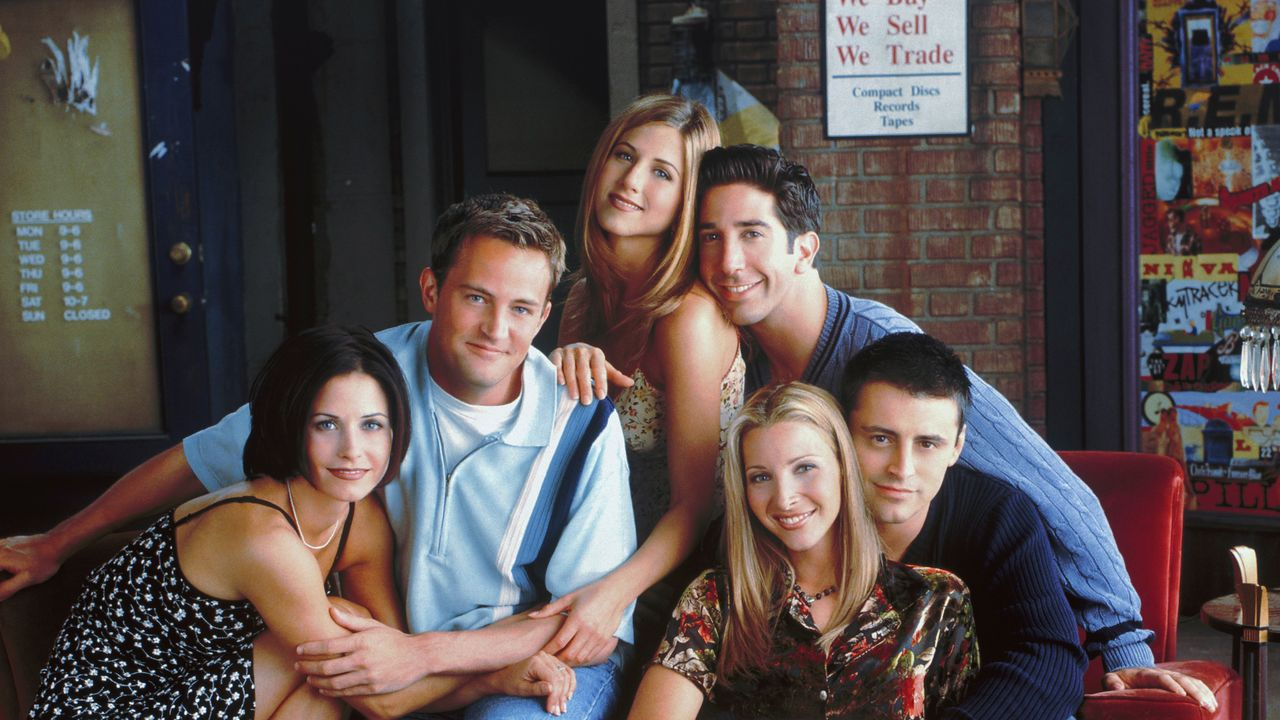
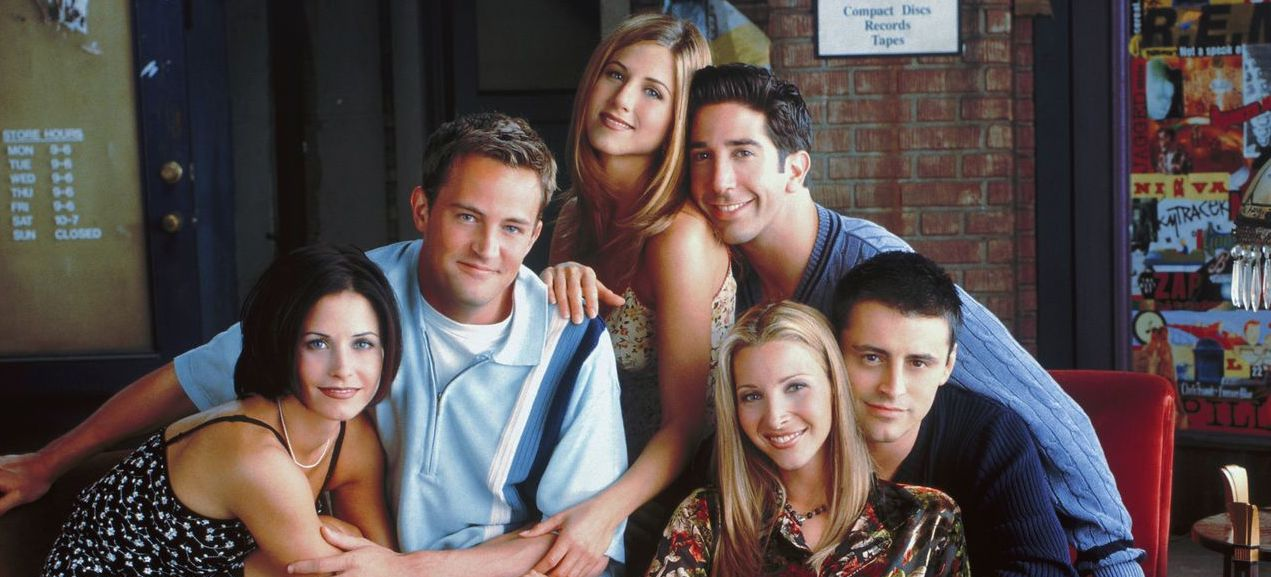
Cropped Photo

diff --git a/index.html b/index.html
@@ -16,9 +16,10 @@
             <img class="friendsPhoto" src="assets/images/2000px-Friends_logo.png" alt="FriendsPhoto">
 			<h1>Hangman Game</h1>
     </div>
+
+    <img class="friendsGroup" src="assets/images/friendsgroup.jpg" alt="FriendsGroupPhoto"></img>
     
     <div class="containerLeft">
-        <img class="friendsGroup" srs="assets/images/friendsgroup.jpg" alt="FriendsGroupPhoto"></img>
         <div class="panel panel-default">
             <div class="panel-heading">
                 <h3 class="panel-title">Word to Guess</h3>
